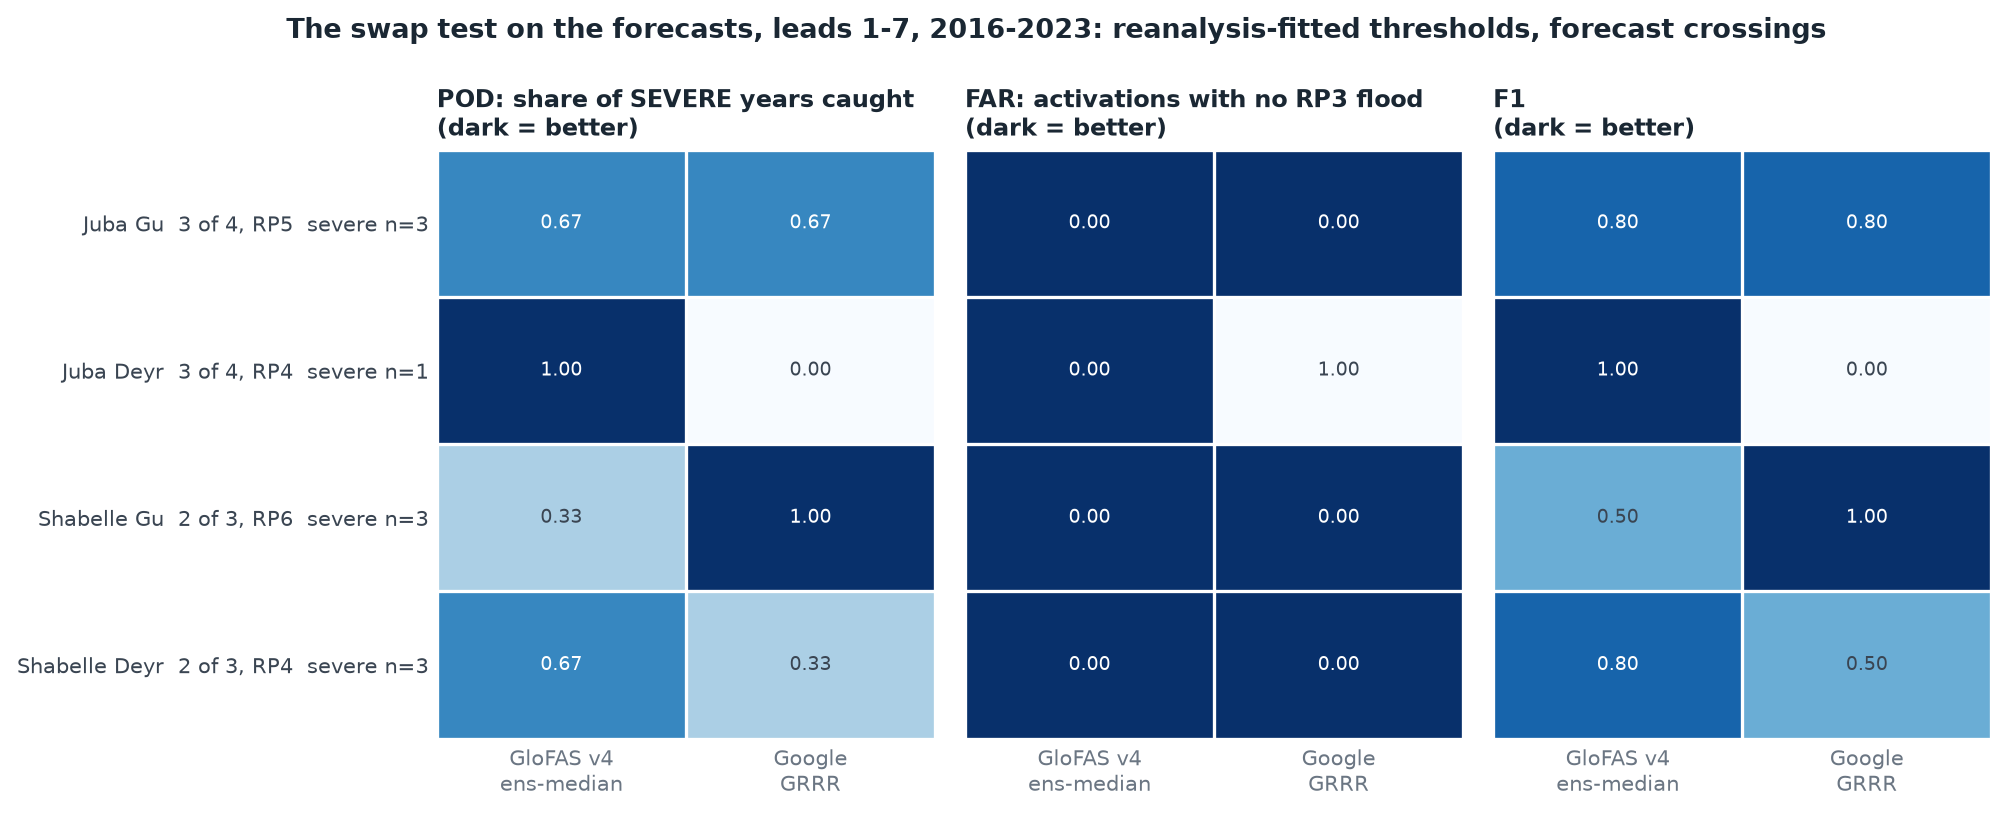
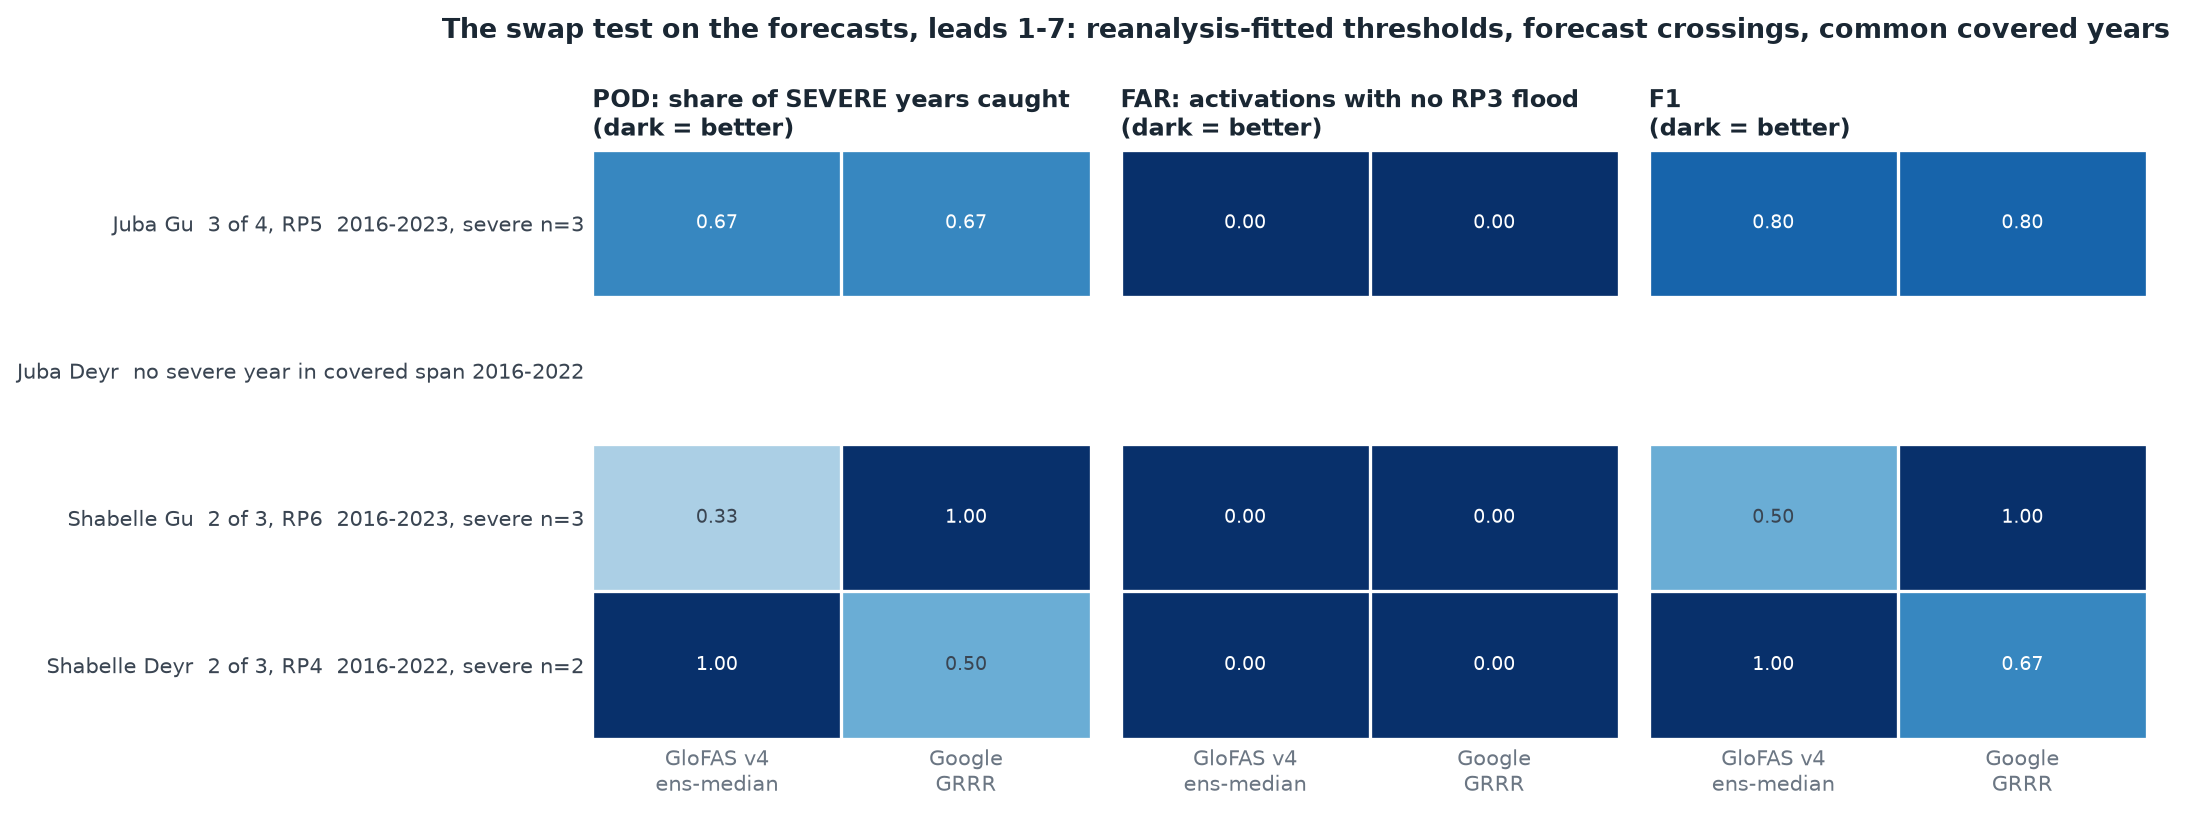
Correct the operational picture: GloFAS runs v4, and Gu 2024 added
No v5 forecast exists: the caveat callout, the operational table and
the model-assignment defense now say the Deyr windows run on the v4
forecast with levels refit on v4's own climatology until a v5
forecast ships. The forecast swap heatmap scores each window over the
years both archives cover (Deyr stops at 2022, Google's archive ends
June 2023) instead of a fixed 2016-2023, and its caption says so.
Adds the Gu 2024 out-of-sample note: severe at the Shabelle gauges,
not replayable on Google, and the operational v4 forecasts stay under
every action level (Shabelle peaks at 75-86% of threshold in early
May). Download script for those forecasts included.

diff --git a/pages/trigger-single-model/index.html b/pages/trigger-single-model/index.html
@@ -481,9 +481,11 @@ body.variant .carrynote { display:none; }
       <img src="figs/j_window_scores_fc.png?v=202609012100" alt="The window swap test on the forecast archives">
       <figcaption>Same vote rules and return periods. Thresholds are fitted on each
         model's own reanalysis, as the trigger operates, and the leads-1-7 forecast series
-        (ensemble median, best lead per day) is tested against them over the common years
-        2016-2023. Eight years give 1 to 3 severe events per window, so read direction,
-        not decimals. This figure does not change with the provider switch.</figcaption>
+        (ensemble median, best lead per day) is tested against them over the years both
+        archives cover in that window, shown per row: 2016-2023 for Gu, 2016-2022 for
+        Deyr, because Google's archive ends in June 2023. Seven or eight years give 1 to 3
+        severe events per window, so read direction, not decimals. This figure does not
+        change with the provider switch.</figcaption>
     </figure>
     <div class="callout">
       <strong>Why Google carries Gu and GloFAS v5 carries Deyr.</strong>
@@ -494,14 +496,16 @@ body.variant .carrynote { display:none; }
           activations on the Juba and a missed severe year (2020) on the Shabelle.
           GloFAS v5's Deyr record is clean.</li>
         <li><strong>GloFAS v5 alone cannot meet the 1-in-3 ceiling.</strong> No v5-only
-          configuration reaches 8 activations, and its nearest envelope fires once every
-          2.9 years. Some windows therefore have to run on Google, and Gu is where the
+          configuration reaches 8 activations, and its nearest envelope activates once
+          every 2.9 years. Some windows therefore have to run on Google, and Gu is where the
           swap costs nothing.</li>
         <li><strong>Google is the only model with forecast-side evidence.</strong> Its
           reforecast (2016-2023) shows event skill at leads 1 to 7 on the Shabelle; the
           only GloFAS lead-time archive (v4) scores near chance there. GloFAS v5 has no
-          reforecast. It keeps Deyr because its thresholds carry over to the live v5
-          forecast, whose climatology matches the reanalysis they were fitted on.</li>
+          reforecast. It keeps Deyr on its reanalysis record; its thresholds carry over
+          unchanged once GloFAS ships a v5 forecast, and until then the Deyr windows are
+          monitored on the v4 forecast with levels refit on v4's own climatology at the
+          same return periods.</li>
       </ul>
     </div>
     <p class="altonly"><strong>GEOGloWS maps the RP3 events least well of the models
@@ -600,8 +604,8 @@ body.variant .carrynote { display:none; }
         every year it activates, the Shabelle activates too (review note R4).</span><span
         class="altonly">The all-providers configuration, same layout, with GEOGloWS
         carrying Juba Gu: the same envelope (8 years, 1-in-3.2) and the same 7 of 8
-        severe coverage, but no activation outside the benchmark &mdash; it does not fire
-        in 2013.</span> With 25-year records, one hit moves coverage by ~12&ndash;15
+        severe coverage, but no activation outside the benchmark &mdash; it does not
+        activate in 2013.</span> With 25-year records, one hit moves coverage by ~12&ndash;15
         points &mdash; differences under ~0.15 are noise.</figcaption>
     </figure>
 
@@ -711,9 +715,10 @@ body.variant .carrynote { display:none; }
         by lead 12 (readiness band, shaded) — its 7–12-day thresholds should anticipate
         that. <strong>GEOGloWS runs 0.85–0.91× its own retrospective even at lead 1</strong>
         (ρ ~0.82), on only ~2 years of archive (2024–26) — retrospective-fitted thresholds
-        will under-fire on its live forecasts until refit on forecast climatology.
-        <strong>No GloFAS v5 reforecast exists</strong>, so the operational v5 forecast's
-        own consistency is untestable — the single most important gap.</figcaption>
+        will activate less often than intended on its live forecasts until refit on
+        forecast climatology. <strong>GloFAS v5 has no forecast yet</strong>, so its
+        consistency with the v5 reanalysis cannot be tested until one ships — the single
+        most important gap.</figcaption>
     </figure>
 
 </div></details>
@@ -734,19 +739,21 @@ body.variant .carrynote { display:none; }
     <div class="tablewrap">
 <table class="data">
 <thead><tr><th>window</th><th>calibrated on</th><th>run on</th><th>reproduces its calibration years?</th></tr></thead>
-<tbody><tr><td>Juba Gu</td><td>Google GRRR reanalysis</td><td>Google GRRR forecasts, leads 1-7</td><td>yes, same archive</td></tr><tr><td>Juba Deyr</td><td>GloFAS v5 reanalysis</td><td>GloFAS v5 operationally; lead-time evidence from GloFAS v4</td><td>cannot be shown directly: no reforecast for this version</td></tr><tr><td>Shabelle Gu</td><td>Google GRRR reanalysis</td><td>Google GRRR forecasts, leads 1-7</td><td>yes, same archive</td></tr><tr><td>Shabelle Deyr</td><td>GloFAS v5 reanalysis</td><td>GloFAS v5 operationally; lead-time evidence from GloFAS v4</td><td>cannot be shown directly: no reforecast for this version</td></tr></tbody>
+<tbody><tr><td>Juba Gu</td><td>Google GRRR reanalysis</td><td>Google GRRR forecasts, leads 1-7</td><td>yes, same archive</td></tr><tr><td>Juba Deyr</td><td>GloFAS v5 reanalysis</td><td>GloFAS v4 operationally, levels refit on v4's climatology, until a v5 forecast exists; lead-time evidence from GloFAS v4</td><td>cannot be shown directly: no reforecast for this version</td></tr><tr><td>Shabelle Gu</td><td>Google GRRR reanalysis</td><td>Google GRRR forecasts, leads 1-7</td><td>yes, same archive</td></tr><tr><td>Shabelle Deyr</td><td>GloFAS v5 reanalysis</td><td>GloFAS v4 operationally, levels refit on v4's climatology, until a v5 forecast exists; lead-time evidence from GloFAS v4</td><td>cannot be shown directly: no reforecast for this version</td></tr></tbody>
 </table>
 </div><div class="callout warn">
       <strong>The caveat that matters most.</strong> At ≤ 6-day leads the GloFAS v4
       reforecast misses Deyr 2023 on the Shabelle — the largest flood in the record — even
-      though the v5 reanalysis flags it clearly. The operational forecast has been v5 since
-      August 2026 and should behave like the v5 reanalysis here, but there is no v5
-      reforecast to prove it. Re-verifying both Deyr legs the moment EWDS publishes a v5
-      reforecast is the single most important follow-up.
+      though the v5 reanalysis flags it clearly. The operational forecast is still v4: no
+      v5 forecast exists yet. Until one does, the Deyr windows run on v4 with levels refit
+      on v4's own climatology at the same return periods, and the v5 reanalysis skill this
+      trigger is calibrated on is not yet available in live monitoring. Switching the Deyr
+      legs to the v5 forecast, and re-verifying them, the moment it is published is the
+      single most important follow-up.
     </div>
 
     <div class="callout warn">
-<strong>What the calibration cannot settle.</strong> Google's reforecast starts in 2016, so a Google window cannot be calibrated on its own forecasts at a 1-in-3 threshold, which needs about 12 years: it is calibrated on the retrospective and only checked at lead time. GloFAS v5 has no reforecast at all, so its window inherits its lead-time evidence from v4. Readiness is not tuned to precede activation, so an action trigger may fire with no readiness phase ahead of it.
+<strong>What the calibration cannot settle.</strong> Google's reforecast starts in 2016, so a Google window cannot be calibrated on its own forecasts at a 1-in-3 threshold, which needs about 12 years: it is calibrated on the retrospective and only checked at lead time. GloFAS v5 has no reforecast at all, so its window inherits its lead-time evidence from v4. Readiness is not tuned to precede activation, so an action trigger may activate with no readiness phase ahead of it.
 </div>
 
 
@@ -809,6 +816,12 @@ body.variant .carrynote { display:none; }
       both rivers and marked * (they are national riverine-flood responses). Impact
       columns are context, not a skill score: a formal skill-vs-impact statistic still
       requires choosing an impact threshold.</p>
+    <p><strong>Gu 2024, the one year outside this record,</strong> was severe at the
+      Shabelle gauges (all three over their 1-in-5) and cannot be replayed on Google,
+      whose archive ends in 2023; replayed on the operational GloFAS v4 forecasts,
+      neither river activates on either leg — the Shabelle forecast peaks in early May
+      at 75–86% of the action levels, consistent with the v4 blind spot behind the
+      missed Deyr 2023.</p>
 
 <details class="supp"><summary>Supporting analysis &mdash; should impact tilt the probabilities?</summary>
 <div class="supp-body">

diff --git a/scripts/build_multisource_variant.py b/scripts/build_multisource_variant.py
@@ -607,22 +607,37 @@ def draw_window_scores_fc(path):
     if fc_action is None:
         return None
     fmods = [m for m in ["glofas_v4", "google_grrr"] if m in fc_action_spans]
-    span = set.intersection(*[fc_action_spans[m] for m in fmods]) & SPAN
-    if len(span) < 6:
-        return None
+
+    def season_cover(model, season):
+        """Years this model's action-band archive actually covers the season."""
+        d = fc_action[fc_action.src == model]
+        d = d[d.date.dt.month.isin(SEASONS[season])]
+        n = d.groupby(d.date.dt.year)["date"].nunique()
+        return set(n[n >= 40].index) & SPAN
+
     ylab, mats = [], {"POD": [], "FAR": [], "F1": []}
     for k in WINDOWS:
         river, season = k
         cfg = TRIGGER_CONFIG[k]
+        # score only years EVERY model covers in this season: Google's archive
+        # ends July 2023, so Deyr 2023 is absent from it, and counting that
+        # absence as a miss would be a coverage artifact, not skill
+        span = set.intersection(*[season_cover(m, season) for m in fmods])
+        if len(span) < 4:
+            continue
         floods = envelope_search.gauge_consensus_years(lv, river, season,
                                                        RP_FLOOR) & span
         sev = envelope_search.gauge_consensus_years(lv, river, season,
                                                     SEVERE_RP) & span
         if not sev:
+            ylab.append(f"{WLABEL[k]}  no severe year in covered span "
+                        f"{min(span)}-{max(span)}")
+            for m_ in mats:
+                mats[m_].append([np.nan] * len(fmods))
             continue
         ylab.append(f"{WLABEL[k]}  {cfg['n_req']} of "
                     f"{len(TRIGGER_STATIONS[river])}, RP{cfg['rp']}  "
-                    f"severe n={len(sev)}")
+                    f"{min(span)}-{max(span)}, severe n={len(sev)}")
         row = {m_: [] for m_ in mats}
         for m in fmods:
             cols = []
@@ -670,8 +685,8 @@ def draw_window_scores_fc(path):
         ax.set_title({"POD": "POD: share of SEVERE years caught",
                       "FAR": "FAR: activations with no RP3 flood",
                       "F1": "F1"}[met] + "\n(dark = better)", fontsize=10)
-    fig.suptitle(f"The swap test on the forecasts, leads 1-7, {min(span)}-"
-                 f"{max(span)}: reanalysis-fitted thresholds, forecast crossings",
+    fig.suptitle("The swap test on the forecasts, leads 1-7: reanalysis-fitted "
+                 "thresholds, forecast crossings, common covered years",
                  x=0.05, ha="left", fontweight="bold", fontsize=11.5, color=INK)
     fig.subplots_adjust(wspace=0.06, top=0.82)
     fig.savefig(path, dpi=170, bbox_inches="tight")

diff --git a/scripts/download_gu2024_forecast.py b/scripts/download_gu2024_forecast.py
@@ -1,0 +1,60 @@
+"""Download the operational GloFAS forecasts for Gu 2024 (out-of-sample check).
+
+The 2024 operational system was v4, so these forecasts pair with the v4
+reanalysis thresholds the way the trigger operates. One request per station
+and month (tiny 0.1-degree boxes keep every request far below the cost
+limit), control plus all perturbed members, leads 1-12 days.
+
+Usage (from repo root):
+    .venv/Scripts/python.exe scripts/download_gu2024_forecast.py
+
+Saves to data/glofas/raw/forecast_gu2024/<station>_<month>.nc; files that
+already exist are skipped, so re-running is safe.
+"""
+import sys
+from pathlib import Path
+
+repo_root = Path(__file__).resolve().parent.parent
+if str(repo_root) not in sys.path:
+    sys.path.insert(0, str(repo_root))
+
+from src.constants import TRIGGER_STATIONS  # noqa: E402
+from src.datasources import glofas  # noqa: E402
+
+OUT = glofas.DATA_DIR / "raw" / "forecast_gu2024"
+LEAD_HOURS = [str(24 * d) for d in range(1, 13)]
+STATIONS = [s for v in TRIGGER_STATIONS.values() for s in v]
+
+
+def main():
+    client = glofas._client(wait_until_complete=False)
+    coll = client.client.get_collection("cems-glofas-forecast")
+    jobs = []
+    # April-May issues cover the whole event window (gauge crossings ran
+    # 19 Apr - 25 May 2024, and lead-12 readiness for mid-April needs early
+    # April issues); the 51-member ensemble alone carries the median
+    for st in STATIONS:
+        for month in ("04", "05"):
+            for prod, tag in [("ensemble_perturbed_forecasts", "ens")]:
+                req = {
+                    "variable": "river_discharge_in_the_last_24_hours",
+                    "system_version": ["operational"],
+                    "hydrological_model": ["lisflood"],
+                    "product_type": [prod],
+                    "year": ["2024"],
+                    "month": [month],
+                    "day": [f"{d:02d}" for d in range(1, 32)],
+                    "leadtime_hour": LEAD_HOURS,
+                    "area": glofas._station_area(st),
+                    "data_format": "netcdf",
+                }
+                for creq, prefix in glofas._plan_chunks(
+                        coll, req, f"{st}_2024{month}_{tag}"):
+                    jobs.append(("cems-glofas-forecast", creq,
+                                 OUT / f"{prefix}.nc"))
+    print(f"[gu2024] {len(jobs)} chunks planned")
+    glofas._submit_rolling(client, jobs, log_prefix="[gu2024] ")
+
+
+if __name__ == "__main__":
+    main()
